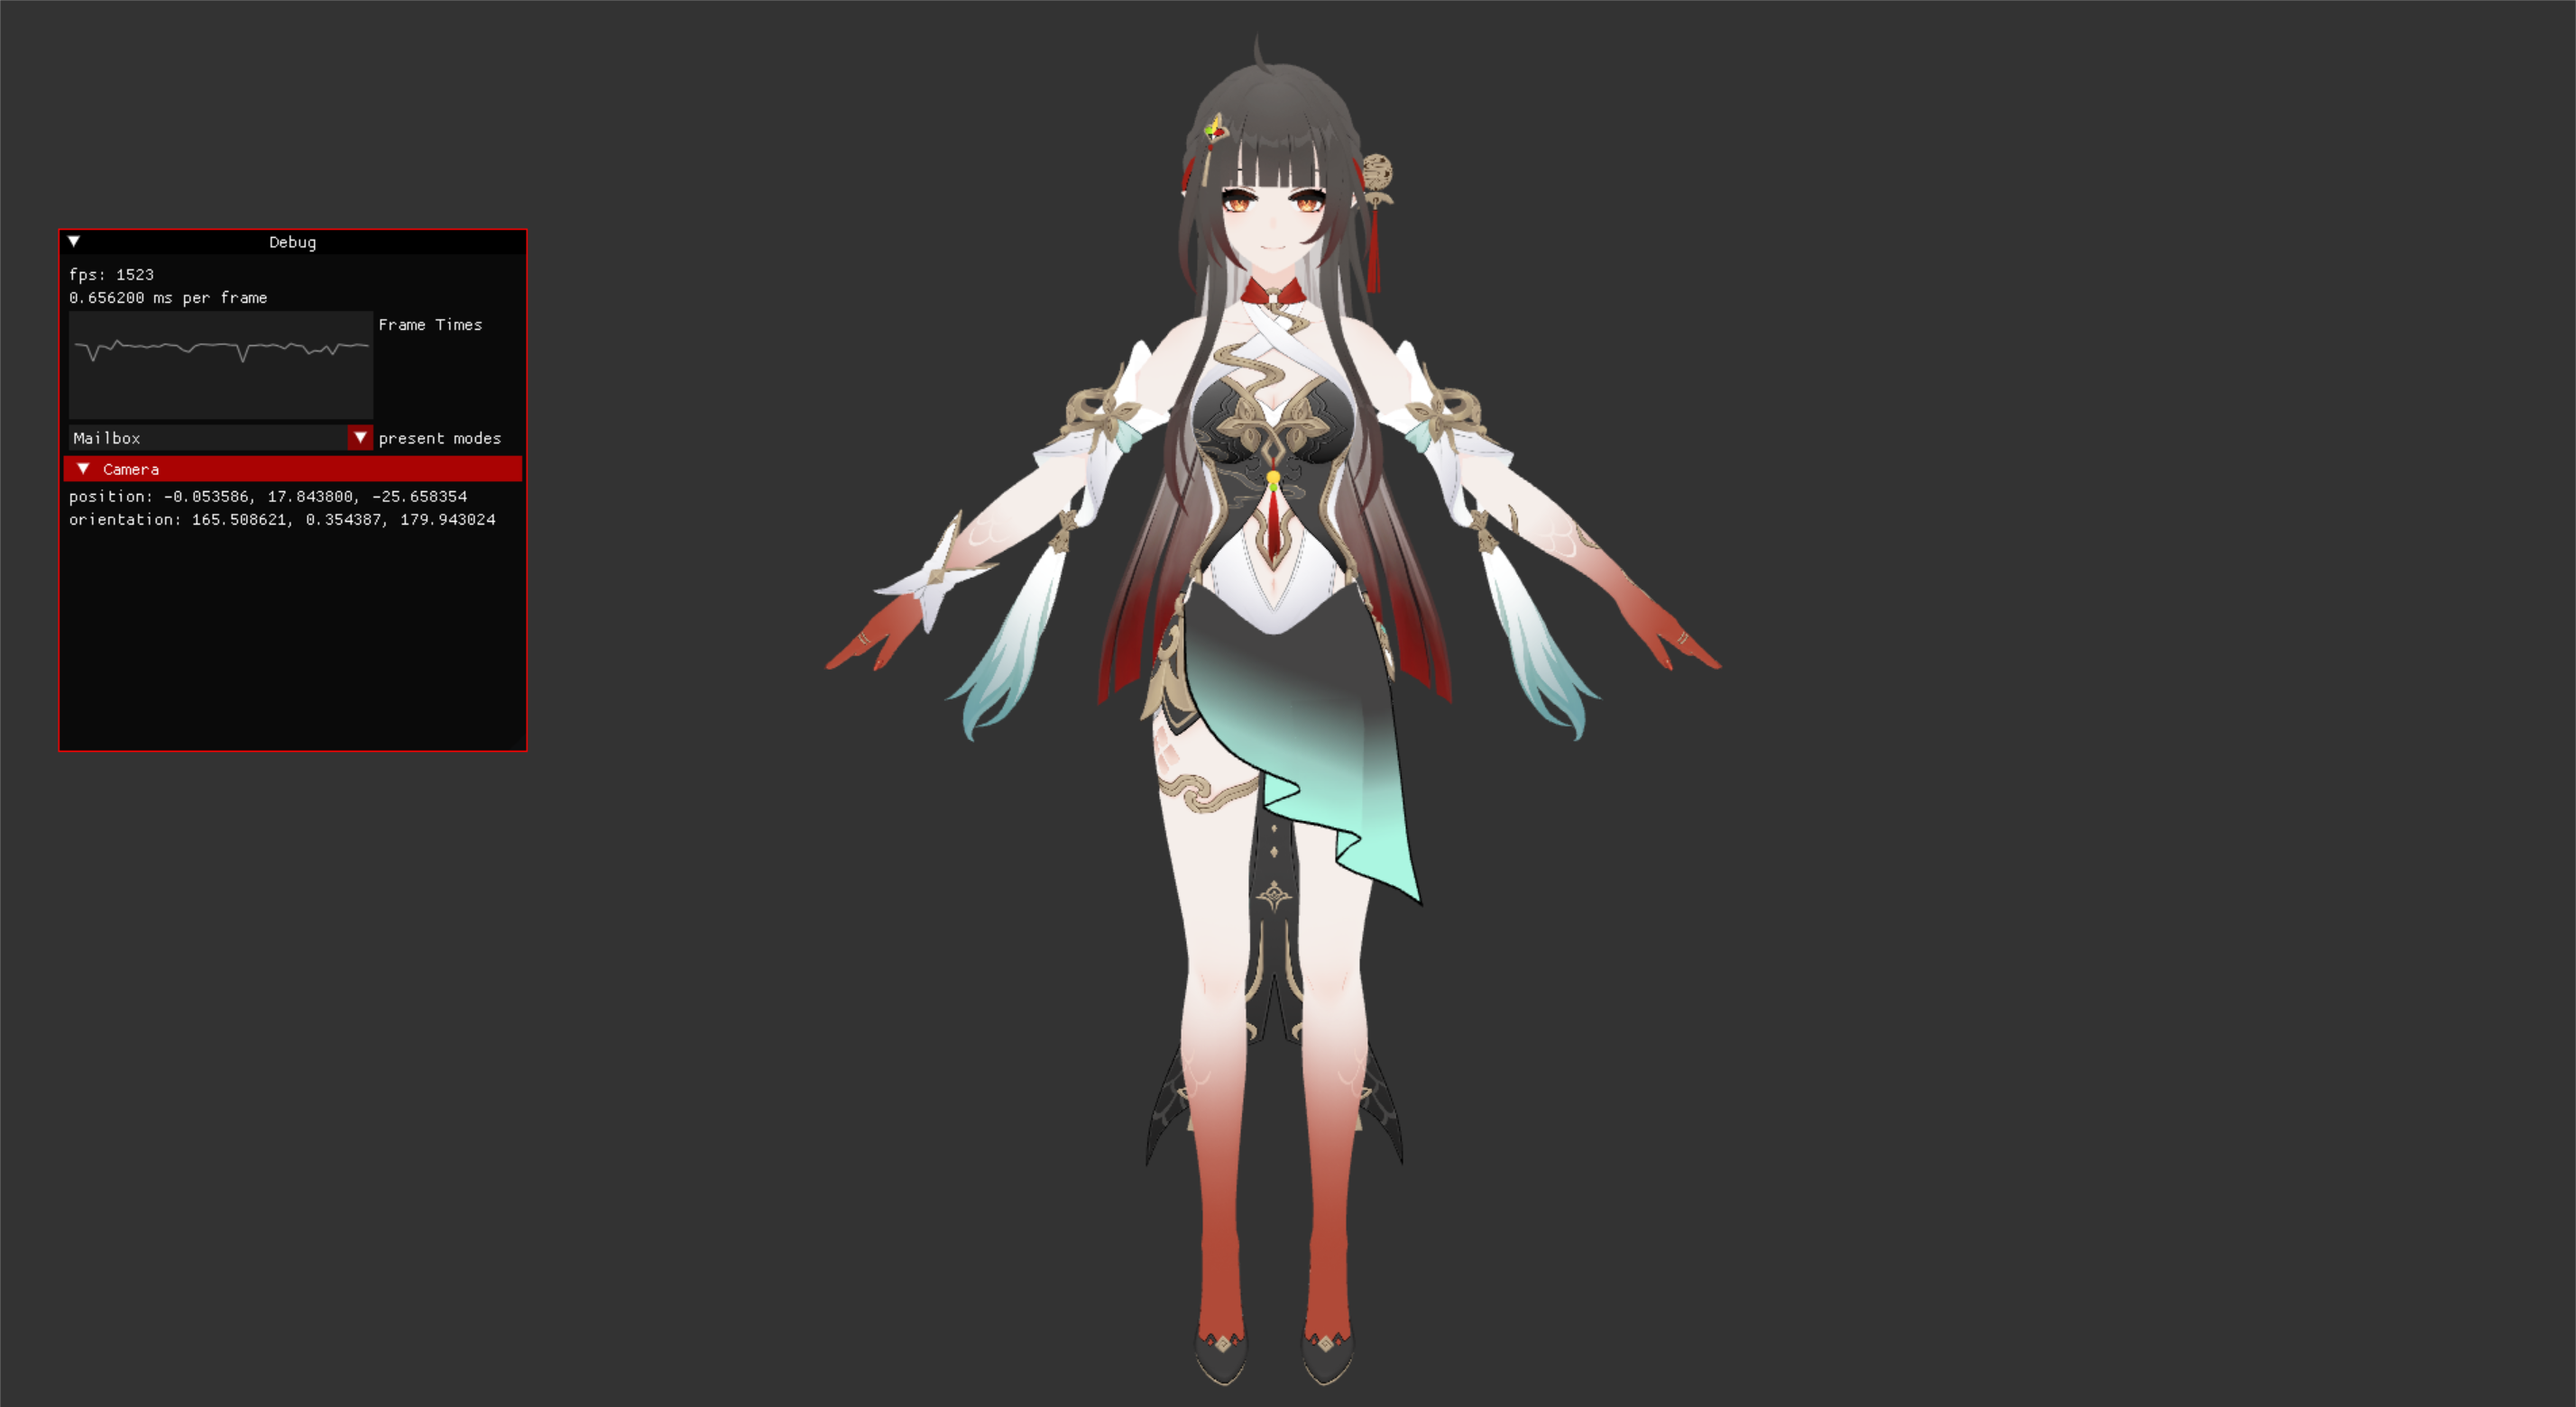
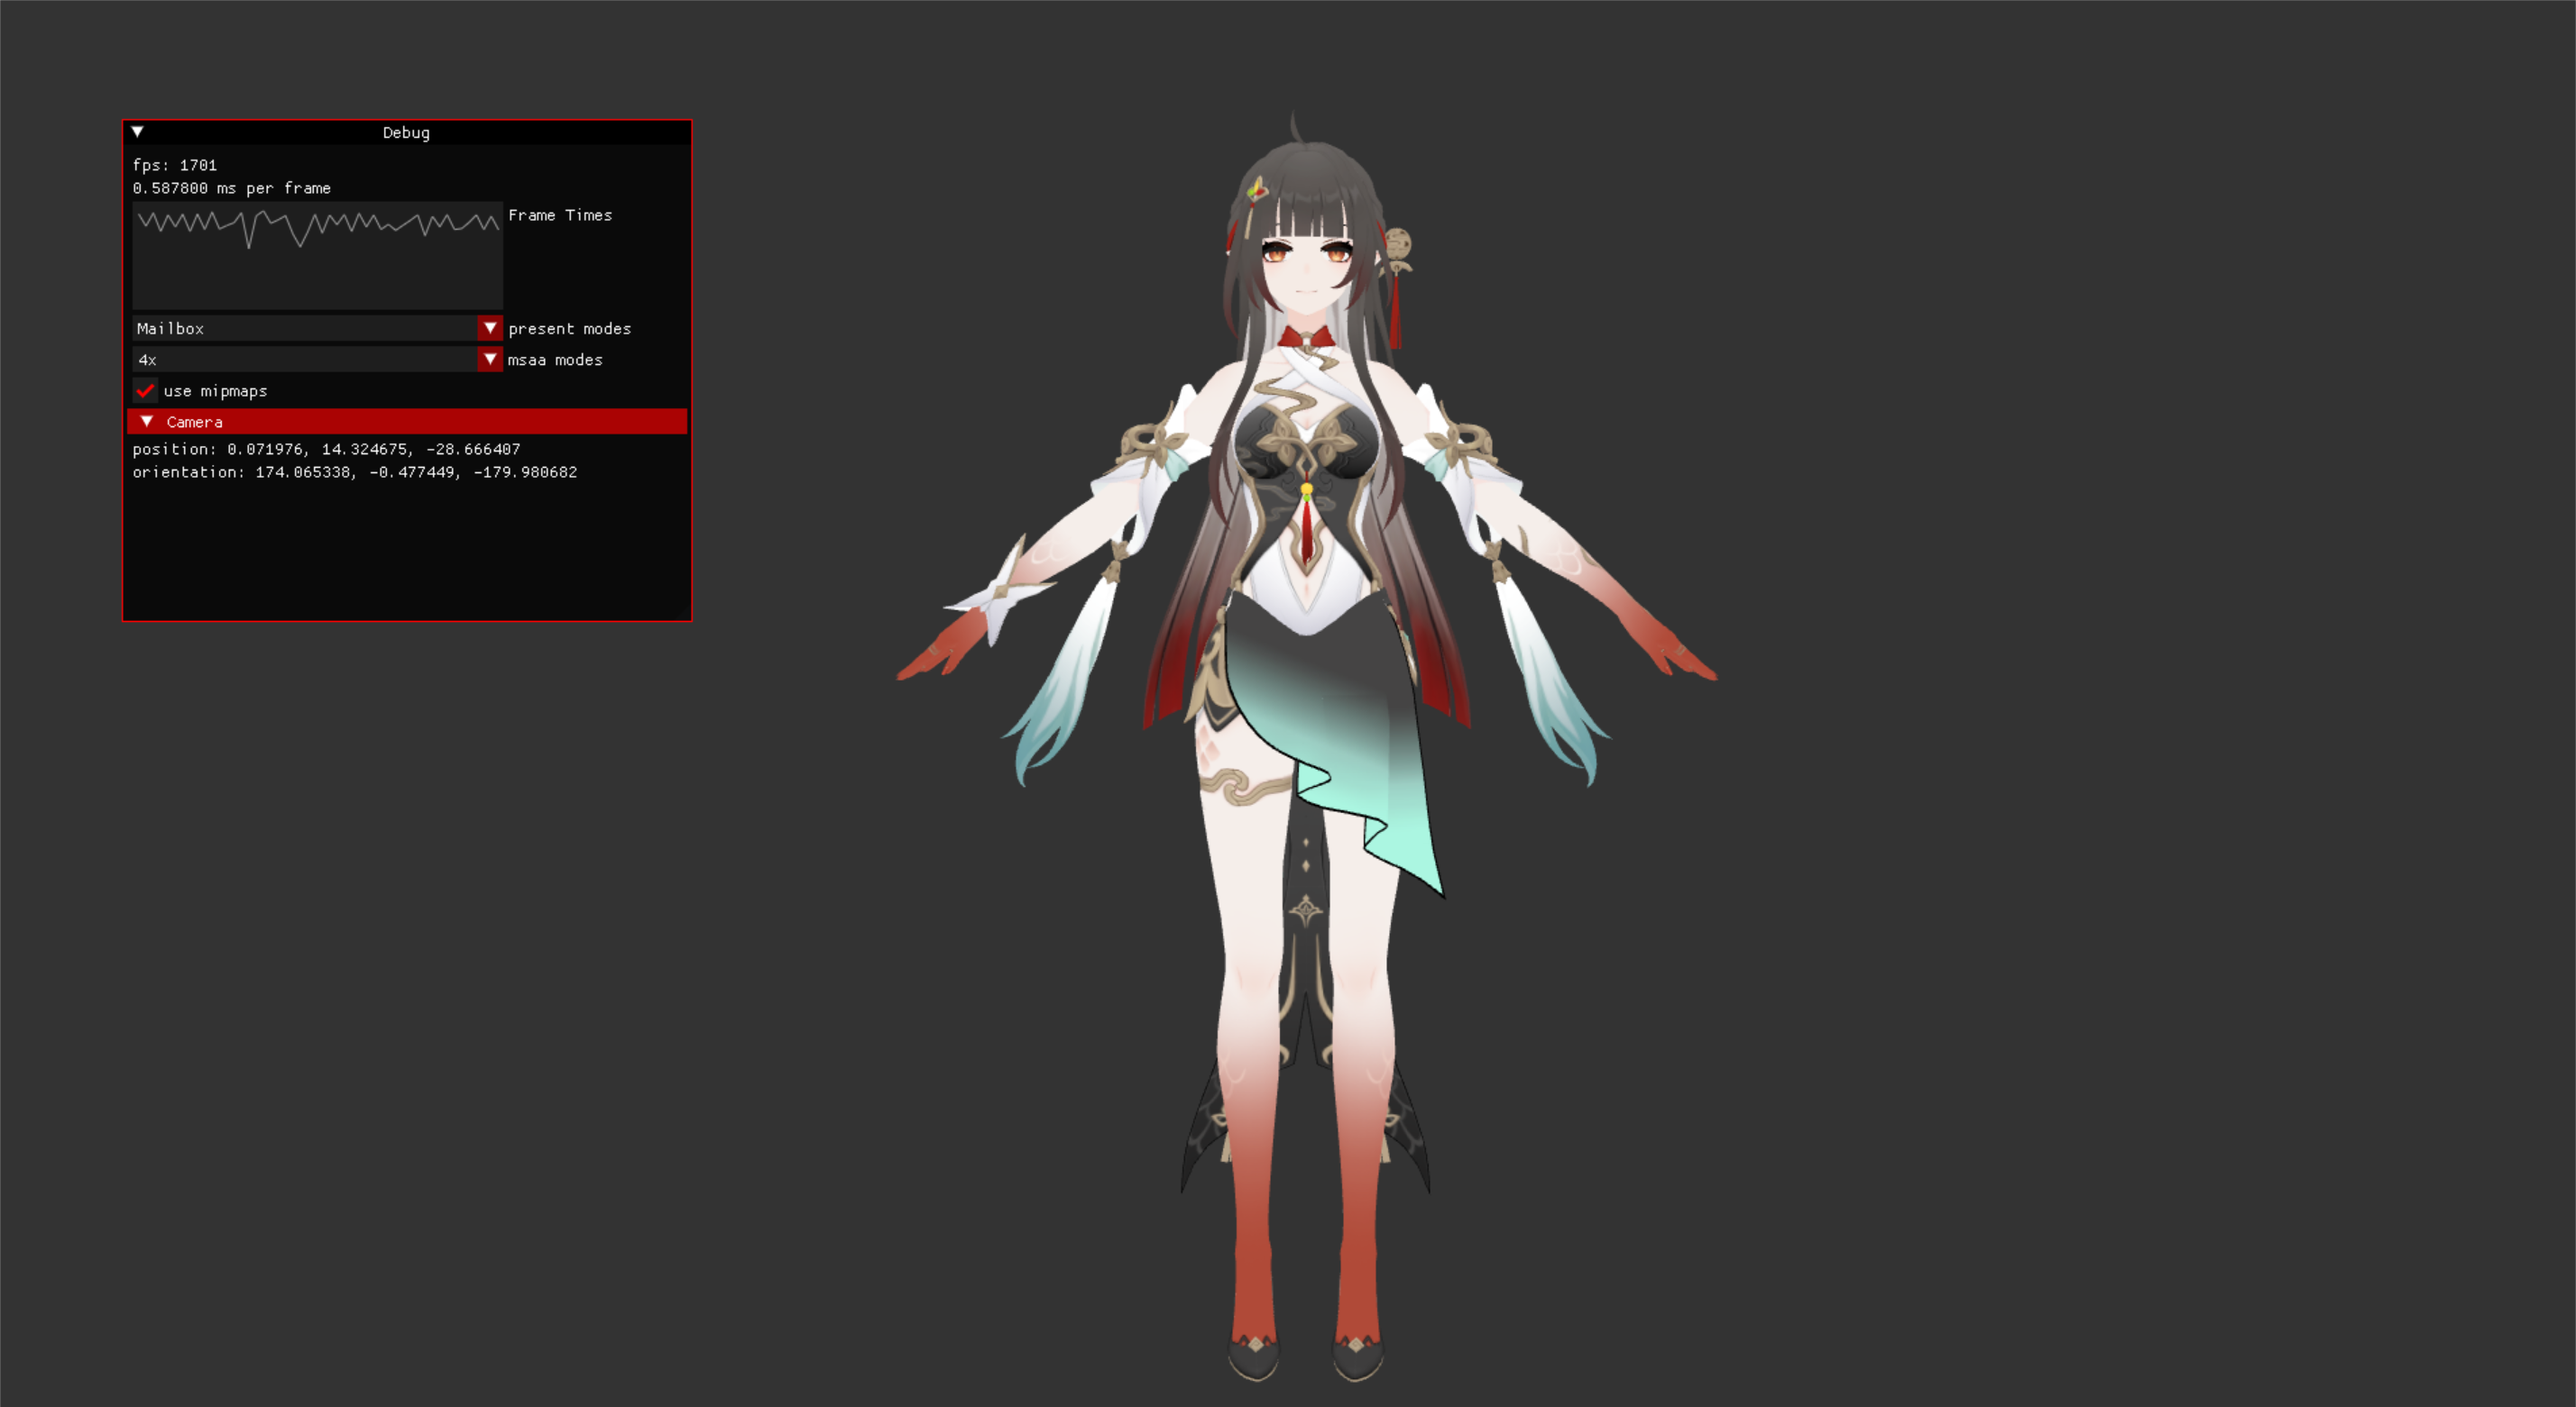
1. graphics setting 矫正msaa 2. 更下readme 图像

Changed region(s): [[0.3116, 0.0307, 0.6856, 0.984], [0.0, 0.0615, 0.2805, 0.5535]]

diff --git a/src/jrenderer/src/graphics.cpp b/src/jrenderer/src/graphics.cpp
@@ -1,26 +1,30 @@
 #include "jrenderer/graphics.h"
 #include "jrenderer/render_set.h"
+#include <fmt/core.h>
 
 namespace jre
 {
 
-    Graphics::Graphics(gsl::not_null<const Window *> window, const GraphicsSettings &setting) : m_settings(setting),
-                                                                                                m_window(window),
-                                                                                                m_instance(std::make_unique<Instance>(InstanceCreateInfo{m_settings.app_name,
-                                                                                                                                                         m_settings.app_version,
-                                                                                                                                                         m_settings.engine_name,
-                                                                                                                                                         m_settings.engine_version})),
-                                                                                                m_physical_device(m_instance->create_first_physical_device()),
-                                                                                                m_logical_device(m_physical_device->create_logical_device()),
-                                                                                                m_surface(m_instance->create_surface(m_physical_device.get(), window->hinstance(), window->hwnd())),
-                                                                                                m_swap_chain(std::move(m_logical_device->create_swapchain(*m_surface, nullptr,
-                                                                                                                                                          SwapChainCreateInfo{window->size().x, window->size().y, setting.vsync}))),
-                                                                                                m_msaa_image(m_logical_device.get(), ColorImage2DCreateInfo{m_swap_chain->extent().width, m_swap_chain->extent().height, vk::ImageUsageFlagBits::eTransientAttachment | vk::ImageUsageFlagBits::eColorAttachment, m_settings.msaa}),
-                                                                                                m_depth_image(m_logical_device.get(), *m_physical_device, {m_swap_chain->extent().width, m_swap_chain->extent().height, m_settings.msaa}),
-                                                                                                m_render_pass(m_logical_device.get(), m_swap_chain->image_format(), m_depth_image.format(), m_settings.msaa),
-                                                                                                m_command_pool(std::make_unique<CommandPool>(m_logical_device.get(), CommandPoolCreateInfo(vk::CommandPoolCreateFlagBits::eResetCommandBuffer, m_logical_device->graphics_queue_family()))),
-                                                                                                m_transfer_command_pool(std::make_unique<CommandPool>(m_logical_device.get(), CommandPoolCreateInfo(vk::CommandPoolCreateFlagBits::eResetCommandBuffer, m_logical_device->transfer_queue_family()))),
-                                                                                                m_descriptor_pool(std::make_unique<DescriptorPool>(m_logical_device.get(), DescriptorPoolCreateInfo{100, 100}))
+    Graphics::Graphics(gsl::not_null<const Window *> window,
+                       const GraphicsSettings::InstanceSettings &instance_settings,
+                       const GraphicsSettings &settings)
+        : m_window(window),
+          m_instance(std::make_unique<Instance>(InstanceCreateInfo{instance_settings.app_name,
+                                                                   instance_settings.app_version,
+                                                                   instance_settings.engine_name,
+                                                                   instance_settings.engine_version})),
+          m_physical_device(m_instance->create_first_physical_device()),
+          m_settings(correct_settings(settings, *m_physical_device)),
+          m_logical_device(m_physical_device->create_logical_device()),
+          m_surface(m_instance->create_surface(m_physical_device.get(), window->hinstance(), window->hwnd())),
+          m_swap_chain(std::move(m_logical_device->create_swapchain(*m_surface, nullptr,
+                                                                    SwapChainCreateInfo{window->size().x, window->size().y, m_settings.vsync}))),
+          m_msaa_image(m_logical_device.get(), ColorImage2DCreateInfo{m_swap_chain->extent().width, m_swap_chain->extent().height, vk::ImageUsageFlagBits::eTransientAttachment | vk::ImageUsageFlagBits::eColorAttachment, m_settings.msaa}),
+          m_depth_image(m_logical_device.get(), *m_physical_device, {m_swap_chain->extent().width, m_swap_chain->extent().height, m_settings.msaa}),
+          m_render_pass(m_logical_device.get(), m_swap_chain->image_format(), m_depth_image.format(), m_settings.msaa),
+          m_command_pool(std::make_unique<CommandPool>(m_logical_device.get(), CommandPoolCreateInfo(vk::CommandPoolCreateFlagBits::eResetCommandBuffer, m_logical_device->graphics_queue_family()))),
+          m_transfer_command_pool(std::make_unique<CommandPool>(m_logical_device.get(), CommandPoolCreateInfo(vk::CommandPoolCreateFlagBits::eResetCommandBuffer, m_logical_device->transfer_queue_family()))),
+          m_descriptor_pool(std::make_unique<DescriptorPool>(m_logical_device.get(), DescriptorPoolCreateInfo{100, 100}))
     {
         create_framebuffers();
         for (uint32_t i = 0; i < m_swap_chain->images().size(); ++i)
@@ -30,6 +34,14 @@ namespace jre
         m_current_frame = m_frames.begin();
     };
 
+    GraphicsSettings Graphics::correct_settings(const GraphicsSettings &origin_settings, const PhysicalDevice &physical_device)
+    {
+        GraphicsSettings settings = origin_settings;
+        vk::SampleCountFlagBits max_msaa = physical_device.get_max_usable_sample_count();
+        settings.msaa = std::min(settings.msaa, max_msaa);
+        fmt::print("wanted msaa: {}, cur msaa: {} (if not the same, GPU not support)\n", static_cast<int>(origin_settings.msaa), static_cast<int>(settings.msaa));
+        return settings;
+    }
     void Graphics::draw(std::vector<IRenderSetRenderer *> renderers)
     {
         if (is_minimized()) // 这是最舒服的写法了，当最小化的时候会让swapchian长宽为0，其他地方会报错，否则就得到处判断。这个对性能的影响我看不大就这样吧。

diff --git a/src/jrenderer/include/jrenderer/graphics.h b/src/jrenderer/include/jrenderer/graphics.h
@@ -24,24 +24,31 @@
 
 namespace jre
 {
+
     struct GraphicsSettings
     {
-        std::string app_name = "";
-        uint32_t app_version = 1;
-        std::string engine_name = "";
-        uint32_t engine_version = 1;
-        std::variant<bool, vk::PresentModeKHR> vsync = false;       // true : FIFO  false : Mailbox
-        vk::SampleCountFlagBits msaa = vk::SampleCountFlagBits::e1; // 1 : No MSAA  2 : 2xMSAA  4 : 4xMSAA ... etc 超出GPU支持的值会被截断
+        struct InstanceSettings
+        {
+            std::string app_name = "";
+            uint32_t app_version = 1;
+            std::string engine_name = "";
+            uint32_t engine_version = 1;
+        };
+
+        InstanceSettings instance_settings;
+        std::variant<bool, vk::PresentModeKHR> vsync = false;        // true : FIFO  false : Mailbox
+        vk::SampleCountFlagBits msaa = vk::SampleCountFlagBits::e16; // 1 : No MSAA  2 : 2xMSAA  4 : 4xMSAA ... etc 超出GPU支持的值会被截断
     };
 
     class Graphics
     {
     private:
-        GraphicsSettings m_settings;
-
         gsl::not_null<const Window *> m_window;
         std::unique_ptr<Instance> m_instance;
         std::unique_ptr<PhysicalDevice> m_physical_device;
+
+        GraphicsSettings m_settings;
+
         std::unique_ptr<LogicalDevice> m_logical_device;
         std::unique_ptr<Surface> m_surface;
         std::unique_ptr<SwapChain> m_swap_chain;
@@ -61,11 +68,15 @@ namespace jre
         std::vector<std::unique_ptr<FrameBuffer>> m_frame_buffers;
         uint32_t m_current_frame_buffer_index = 0;
 
+        static GraphicsSettings correct_settings(const GraphicsSettings &setting, const PhysicalDevice &physical_device);
+        Graphics(gsl::not_null<const Window *> window, const GraphicsSettings::InstanceSettings &instance_settings, const GraphicsSettings &settings);
+
         void recreate_swapchain();
         void create_framebuffers();
 
     public:
-        Graphics(gsl::not_null<const Window *> window, const GraphicsSettings &setting = {});
+        Graphics(gsl::not_null<const Window *> window, const GraphicsSettings &settings = {})
+            : Graphics(window, settings.instance_settings, settings) {}
         ~Graphics();
 
         inline const Instance *instance() const noexcept { return m_instance.get(); }
